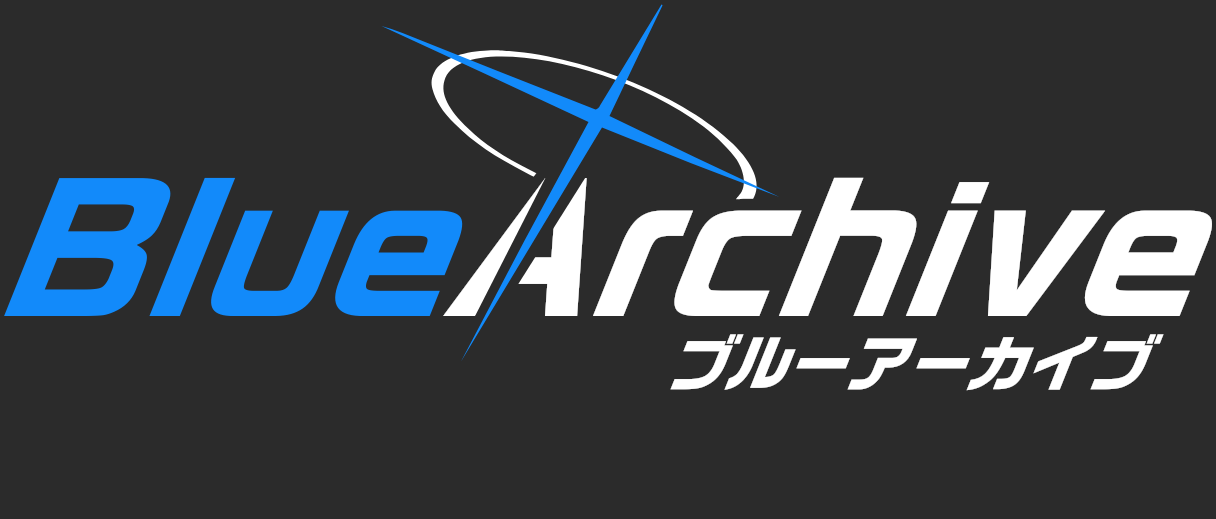
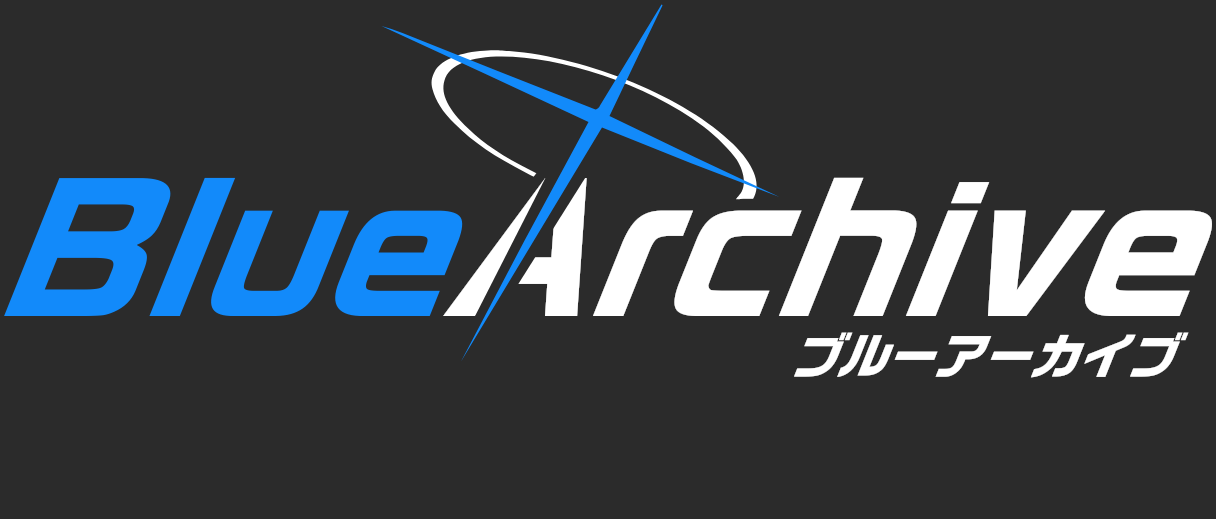
[fix]优化副标题排版与动画效果

Changed region(s): [[0.5312, 0.6474, 0.9688, 0.7707]]

diff --git a/test/animated.test.ts b/test/animated.test.ts
@@ -1,12 +1,13 @@
 import { describe, expect, it } from 'bun:test';
 import type { Canvas } from '@napi-rs/canvas';
 import { createApp } from '../src/app.ts';
+import { BASE_FONT_SIZE } from '../src/constants.ts';
 import { loadFonts } from '../src/font.ts';
 import { drawAnimatedLogoCanvas, renderLogoAnimatedToBuffer } from '../src/render/animated.ts';
 import { computeLogoLayout } from '../src/render/layout.ts';
 import { normalizeRenderOptions } from '../src/render/options.ts';
 
-function pixelBounds(canvas: Canvas, color?: readonly number[]) {
+function pixelBounds(canvas: Canvas, color?: readonly number[], alphaThreshold = 64) {
   const pixels = canvas.getContext('2d').getImageData(0, 0, canvas.width, canvas.height).data;
   let minX = canvas.width;
   let maxX = -1;
@@ -16,7 +17,7 @@ function pixelBounds(canvas: Canvas, color?: readonly number[]) {
   for (let y = 0; y < canvas.height; y++) {
     for (let x = 0; x < canvas.width; x++) {
       const index = (y * canvas.width + x) * 4;
-      if (pixels[index + 3] < 64) continue;
+      if (pixels[index + 3] < alphaThreshold) continue;
       if (color?.some((channel, offset) => Math.abs(pixels[index + offset] - channel) > 2)) {
         continue;
       }
@@ -102,13 +103,95 @@ describe('文字水平入场与反向着色', () => {
   }
 });
 
+describe('标题初始间距', () => {
+  it('左右文字应各向外偏移半个基础字宽，总间距为一个字宽', () => {
+    loadFonts();
+    for (const side of ['left', 'right'] as const) {
+      const options = normalizeRenderOptions({
+        textL: side === 'left' ? '蔚' : '',
+        textR: side === 'right' ? '档' : '',
+        haloColor: '#00000000',
+        crossColor: '#00000000',
+        transparent: true,
+      });
+      const layout = computeLogoLayout(options);
+      const initial = pixelBounds(drawAnimatedLogoCanvas(options, layout, 0), undefined, 1);
+      const settled = pixelBounds(drawAnimatedLogoCanvas(options, layout, 0.5), undefined, 1);
+      const displacement =
+        side === 'left' ? settled.maxX - initial.maxX : initial.minX - settled.minX;
+      expect(Math.abs(displacement - BASE_FONT_SIZE / 2)).toBeLessThanOrEqual(1);
+    }
+  });
+});
+
+describe('浅色文字着色可见性', () => {
+  it('右侧白色文字应通过不透明度变化呈现自下而上的着色效果', () => {
+    loadFonts();
+    const options = normalizeRenderOptions({
+      textL: '',
+      textR: '档案',
+      textColor: '#FFFFFF',
+      darkMode: true,
+      transparent: true,
+    });
+    const layout = computeLogoLayout(options);
+    const opacityCounts = (canvas: Canvas) => {
+      const pixels = canvas.getContext('2d').getImageData(0, 0, canvas.width, canvas.height).data;
+      let faint = 0;
+      let solid = 0;
+      for (let i = 0; i < pixels.length; i += 4) {
+        const alpha = pixels[i + 3];
+        if (alpha >= 16 && alpha <= 64) faint++;
+        if (alpha >= 250) solid++;
+      }
+      return { faint, solid };
+    };
+
+    const middle = opacityCounts(drawAnimatedLogoCanvas(options, layout, 0.15));
+    const late = opacityCounts(drawAnimatedLogoCanvas(options, layout, 0.22));
+    expect(middle.faint).toBeGreaterThan(500);
+    expect(middle.solid).toBeGreaterThan(100);
+    expect(late.solid).toBeGreaterThan(middle.solid);
+  });
+});
+
+describe('文字扫描高光边界', () => {
+  for (const text of ['蔚蓝', 'HHH']) {
+    it(`${text} 着色时不应在文字外的透明画布边缘留下白线`, () => {
+      loadFonts();
+      const options = normalizeRenderOptions({
+        textL: text,
+        textR: '',
+        accentColor: '#FFC300',
+        textColor: '#FFFFFF',
+        darkMode: true,
+        transparent: true,
+      });
+      const layout = computeLogoLayout(options);
+      const canvas = drawAnimatedLogoCanvas(options, layout, 0.15);
+      const { width, height } = canvas;
+      const pixels = canvas.getContext('2d').getImageData(0, 0, width, height).data;
+      let edgePixelCount = 0;
+
+      // 任意背景下，文字外的左右边缘都必须保持完全透明。
+      for (let y = 0; y < height; y++) {
+        for (let x = 0; x < 4; x++) {
+          if (pixels[(y * width + x) * 4 + 3] !== 0) edgePixelCount++;
+          if (pixels[(y * width + width - 1 - x) * 4 + 3] !== 0) edgePixelCount++;
+        }
+      }
+      expect(edgePixelCount).toBe(0);
+    });
+  }
+});
+
 describe('副标题横向揭示与十字同步', () => {
   it('应仅以最终颜色从左向右揭示，并与十字在同一帧完成', () => {
     loadFonts();
     const options = normalizeRenderOptions({
       textL: '',
       textR: '',
-      subtitle: 'HHHH',
+      subtitle: 'HHHHHHHH',
       subtitleColor: '#2B2B2B',
       haloColor: '#00000000',
       crossColor: '#00000000',

diff --git a/test/renderer.test.ts b/test/renderer.test.ts
@@ -1,5 +1,7 @@
 import { describe, expect, it } from 'bun:test';
-import { loadImage } from '@napi-rs/canvas';
+import { createCanvas, loadImage } from '@napi-rs/canvas';
+import { computeLogoLayout } from '../src/render/layout.ts';
+import { normalizeRenderOptions } from '../src/render/options.ts';
 import { renderLogo, renderLogoToBuffer } from '../src/renderer.ts';
 
 describe('Renderer Core Unit Tests', () => {
@@ -144,10 +146,74 @@ describe('Renderer Core Unit Tests', () => {
     expect(Math.abs(logo3x.height - logo1x.height * 3)).toBeLessThan(15);
   });
 
+  it('副标题应与右侧主标题的基线右缘对齐，并保留 subX 偏移', () => {
+    const getRightEdges = (canvas: ReturnType<typeof renderLogo>) => {
+      const pixels = canvas.getContext('2d').getImageData(0, 0, canvas.width, canvas.height).data;
+      let title = -1;
+      let subtitle = -1;
+      for (let y = 0; y < canvas.height; y++) {
+        for (let x = 0; x < canvas.width; x++) {
+          const index = (y * canvas.width + x) * 4;
+          if (pixels[index + 3] < 128) continue;
+          if (pixels[index] === 0 && pixels[index + 1] === 0 && pixels[index + 2] === 0) {
+            title = Math.max(title, x);
+          }
+          if (pixels[index] === 255 && pixels[index + 1] === 255 && pixels[index + 2] === 255) {
+            subtitle = Math.max(subtitle, x);
+          }
+        }
+      }
+      return { title, subtitle };
+    };
+
+    const cases = [
+      { textR: '档案', subtitle: 'ブルーアーカイブ', scale: 1, subtitleOffsetX: 0 },
+      { textR: 'Archive', subtitle: 'BlueArchive', scale: 2, subtitleOffsetX: 0 },
+      { textR: '档案', subtitle: 'BlueArchive', scale: 1, subtitleOffsetX: 0 },
+      { textR: 'Archive', subtitle: 'ブルーアーカイブ', scale: 1, subtitleOffsetX: 0 },
+      { textR: '档案', subtitle: 'ブルーアーカイブ', scale: 1, subtitleOffsetX: 12 },
+    ];
+    const measureContext = createCanvas(1, 1).getContext('2d');
+    for (const options of cases) {
+      const layout = computeLogoLayout(normalizeRenderOptions({ ...options, textL: '' }));
+      measureContext.font = layout.font;
+      const expectedSubtitleRight =
+        layout.textTransformXRight +
+        measureContext.measureText(options.textR).width +
+        (options.subtitleOffsetX - 8) * options.scale;
+      expect(Math.abs(layout.subtitleTransformX - expectedSubtitleRight)).toBeLessThanOrEqual(
+        0.001,
+      );
+
+      const canvas = renderLogo({
+        ...options,
+        textL: '',
+        textColor: '#000000',
+        subtitleColor: '#FFFFFF',
+        haloColor: '#00000000',
+        crossColor: '#00000000',
+        transparent: true,
+        center: false,
+        padding: 0,
+      });
+      const edges = getRightEdges(canvas);
+      expect(edges.title).toBeGreaterThan(0);
+      expect(edges.subtitle).toBeGreaterThan(0);
+      if (options.subtitleOffsetX === 0) {
+        expect(edges.subtitle).toBeLessThanOrEqual(edges.title + 1);
+      }
+    }
+  });
+
   it('副标题字号参数应同时影响位图与 SVG，并保持导出尺寸一致', async () => {
-    const small = renderLogo({ subtitle: 'BlueArchive', subtitleFontSize: 24 });
+    const smallLayout = computeLogoLayout(
+      normalizeRenderOptions({ subtitle: 'BlueArchive', subtitleFontSize: 24 }),
+    );
+    const largeLayout = computeLogoLayout(
+      normalizeRenderOptions({ subtitle: 'BlueArchive', subtitleFontSize: 48 }),
+    );
+    expect(largeLayout.subtitleFontSize).toBeGreaterThan(smallLayout.subtitleFontSize);
     const large = renderLogo({ subtitle: 'BlueArchive', subtitleFontSize: 48 });
-    expect(large.width).toBeGreaterThan(small.width);
 
     const svg = renderLogoToBuffer({
       subtitle: 'BlueArchive',
@@ -216,7 +282,7 @@ describe('Renderer Core Unit Tests', () => {
       subtitleFontSize: 36,
       scale: 2,
     });
-    expect(longSub.width).toBeGreaterThan(1200);
+    expect(longSub.width).toBeGreaterThan(1100);
 
     // 支持副标题独立位置微调 (subX, subY)
     const baseSub = renderLogo({

diff --git a/src/render/layout.ts b/src/render/layout.ts
@@ -82,6 +82,7 @@ export function computeLogoLayout(options: NormalizedRenderOptions): LogoLayout 
     canvasHeight * TEXT_BASELINE + subtitleFontSize + 5 * scale + options.subtitleOffsetY * scale;
   let subtitleAscent = 26 * scale;
   let subtitleDescent = 6 * scale;
+  let subtitleXRelative = 0;
   let minSubtitleXRelative = 0;
   let maxSubtitleXRelative = 0;
   if (subtitle) {
@@ -91,7 +92,12 @@ export function computeLogoLayout(options: NormalizedRenderOptions): LogoLayout 
       metrics.fontBoundingBoxAscent ?? metrics.actualBoundingBoxAscent ?? subtitleAscent;
     subtitleDescent =
       metrics.fontBoundingBoxDescent ?? metrics.actualBoundingBoxDescent ?? subtitleDescent;
-    const subtitleXRelative = textWidthR + subtitleFontSize + options.subtitleOffsetX * scale;
+
+    // 对齐右侧基线 advance 锚点，补偿斜体基线差，并默认向左 8px 做光学微调。
+    subtitleXRelative =
+      rightMetrics.width +
+      HORIZONTAL_TILT * (canvasHeight * TEXT_BASELINE - subY) +
+      (options.subtitleOffsetX - 8) * scale;
     minSubtitleXRelative =
       subtitleXRelative - metrics.width + HORIZONTAL_TILT * (subY + subtitleDescent);
     maxSubtitleXRelative = subtitleXRelative + HORIZONTAL_TILT * (subY - subtitleAscent);
@@ -121,7 +127,7 @@ export function computeLogoLayout(options: NormalizedRenderOptions): LogoLayout 
   const rightTextX = canvasWidthL + halfGap;
   const graphX = rightTextX - canvasHeight / 2 + options.offsetX * scale;
   const graphY = options.offsetY * scale;
-  const subtitleX = rightTextX + textWidthR + subtitleFontSize + options.subtitleOffsetX * scale;
+  const subtitleX = rightTextX + subtitleXRelative;
   const totalCanvasHeight = Math.max(
     canvasHeight,
     subtitle ? Math.ceil(subY + subtitleDescent + margin) : 0,

diff --git a/src/render/animated.ts b/src/render/animated.ts
@@ -93,13 +93,16 @@ function drawTextSmoothScan(
     ctx.restore();
   }
 
-  // 3. 扫描能量光带（中心亮线）
+  // 3. 扫描能量光带只绘制在文字字形内，避免在文字外留下全宽白线
   if (scanY > topY && scanY < bottomY) {
     ctx.save();
     ctx.globalAlpha = 0.7;
     ctx.fillStyle = '#FFFFFF';
     const bandH = 2 * scale;
-    ctx.fillRect(0, scanY - bandH / 2, 9999, bandH);
+    ctx.beginPath();
+    ctx.rect(0, scanY - bandH / 2, 9999, bandH);
+    ctx.clip();
+    fillTransformedText();
     ctx.restore();
   }
 
@@ -213,11 +216,12 @@ export function drawAnimatedLogoCanvas(
   const textMoveEase = easeOutCubic(textMoveP);
   const textMoveRemain = 1 - textMoveEase;
 
-  const leftDx = -70 * textMoveRemain * scale;
-  const rightDx = 70 * textMoveRemain * scale;
+  // 初始总间距为一个基础字宽，左右文字各向外偏移半个字宽
+  const leftDx = -(BASE_FONT_SIZE / 2) * textMoveRemain * scale;
+  const rightDx = (BASE_FONT_SIZE / 2) * textMoveRemain * scale;
 
-  // 文字 alpha：原视频文字直接以纯白实色出现，无需淡入
-  const textIntroAlpha = 1;
+  // 未着色区域保持 10% 不透明度，完成后恢复实色
+  const textIntroAlpha = scanProgress < 1 ? 0.1 : 1;
 
   // === Phase 3: 十字架延伸，完整展开耗时 0.5 秒 ===
   const crossDuration = Math.min(0.5, Math.max(0.1, actionDuration - 0.55));

diff --git a/src/renderer.ts b/src/renderer.ts
@@ -50,7 +50,7 @@ export interface RenderOptions {
   subtitleColor?: string; // 可选副标题颜色（默认跟随右侧次要文字颜色）
   subtitleOffsetX?: number; // 副标题 X 轴偏移量微调（像素，默认 0）
   subtitleOffsetY?: number; // 副标题 Y 轴偏移量微调（像素，默认 0）
-  subtitleFontSize?: number; // 副标题基础字号（默认 30，范围 12~96，随 scale 缩放）
+  subtitleFontSize?: number; // 副标题基础字号（默认 24，范围 12~96，随 scale 缩放）
   offsetX?: number;
   offsetY?: number;
   transparent?: boolean;

diff --git a/web/src/components/ControlPanel.vue b/web/src/components/ControlPanel.vue
@@ -263,7 +263,7 @@ const handleColorPicker = (key: 'crossColor' | 'haloColor', e: Event) => {
             @click="resetField('subtitleFontSize')"
             :title="t('label-sub-size')"
           >
-            30 ↺
+            24 ↺
           </button>
         </label>
         <input
@@ -274,7 +274,7 @@ const handleColorPicker = (key: 'crossColor' | 'haloColor', e: Event) => {
           min="12"
           max="96"
           step="1"
-          placeholder="30"
+          placeholder="24"
           @input="handleInput"
         >
       </div>

diff --git a/web/src/utils/url.ts b/web/src/utils/url.ts
@@ -52,7 +52,7 @@ export function buildLogoUrl(state: Readonly<LogoFormState>, origin = ''): strin
     if (state.subtitleColor) set('subtitleColor', cleanHex(state.subtitleColor));
     if (state.subX !== 0) set('subX', state.subX);
     if (state.subY !== 0) set('subY', state.subY);
-    if (state.subtitleFontSize !== 30) set('subtitleFontSize', state.subtitleFontSize);
+    if (state.subtitleFontSize !== 24) set('subtitleFontSize', state.subtitleFontSize);
   }
 
   const defaultTextColor = state.dark ? '#ffffff' : '#2b2b2b';

diff --git a/src/schema.ts b/src/schema.ts
@@ -77,10 +77,10 @@ export const LogoQuerySchema = t.Object({
 
   subtitleFontSize: t.Optional(
     t.Numeric({
-      description: '副标题基础字号（默认 30，范围 12~96，随 scale 缩放）',
+      description: '副标题基础字号（默认 24，范围 12~96，随 scale 缩放）',
       minimum: 12,
       maximum: 96,
-      examples: [30, 36, 48],
+      examples: [24, 30, 48],
     }),
   ),
   subSize: alias(

diff --git a/test/web.test.ts b/test/web.test.ts
@@ -25,6 +25,7 @@ describe('WebUI Frontend Architecture & Logic Tests', () => {
     expect(DEFAULT_STATE.accent).toBe('#128AFA');
     expect(DEFAULT_STATE.textColor).toBe('#2B2B2B');
     expect(DEFAULT_STATE.scale).toBe(2);
+    expect(DEFAULT_STATE.subtitleFontSize).toBe(24);
     expect(DEFAULT_STATE.padding).toBe('2');
     expect(DEFAULT_STATE.format).toBe('png');
     expect(DEFAULT_STATE.transparent).toBe(false);

diff --git a/src/constants.ts b/src/constants.ts
@@ -7,7 +7,7 @@
 export const BASE_CANVAS_HEIGHT = 250;
 export const BASE_CANVAS_WIDTH = 900;
 export const BASE_FONT_SIZE = 84;
-export const BASE_SUBTITLE_FONT_SIZE = 30;
+export const BASE_SUBTITLE_FONT_SIZE = 24;
 export const TEXT_BASELINE = 0.68;
 export const HORIZONTAL_TILT = -0.4; // 倾斜率（约 -20度倾角）
 export const PADDING_X = 10;

diff --git a/web/src/constants.ts b/web/src/constants.ts
@@ -7,7 +7,7 @@ export const DEFAULT_STATE: Readonly<LogoFormState> = Object.freeze({
   subtitleColor: '',
   subX: 0,
   subY: 0,
-  subtitleFontSize: 30,
+  subtitleFontSize: 24,
   accent: '#128AFA',
   textColor: '#2B2B2B',
   crossColor: '',

diff --git a/README.ja.md b/README.ja.md
@@ -109,7 +109,7 @@ RESTful エンドポイント：`GET /api/logo` *(旧 `GET /balogo` からも自
 | `left` | `l` | string | `"蔚蓝"` | 左側のテキスト（メインアクセント色） |
 | `right` | `r` | string | `"档案"` | 右側のテキスト（サブ文字色） |
 | `subtitle` | `sub` | string | `""` | 任意のサブタイトル（右下に斜体で整列配置） |
-| `subtitleFontSize` | `subSize` | number | `30` | サブタイトルの基本フォントサイズ（`12`–`96`、`scale` に追従） |
+| `subtitleFontSize` | `subSize` | number | `24` | サブタイトルの基本フォントサイズ（`12`–`96`、`scale` に追従） |
 | `accentColor` | `accent` | string | `"#128AFA"` | メインアクセントカラー（16進数 Hex） |
 | `textColor` | `color`, `tc` | string | `"#2B2B2B"` | 文字色（ダークモード時は白） |
 | `darkMode` | `dark` | boolean | `false` | ダークモードの有効化 |
